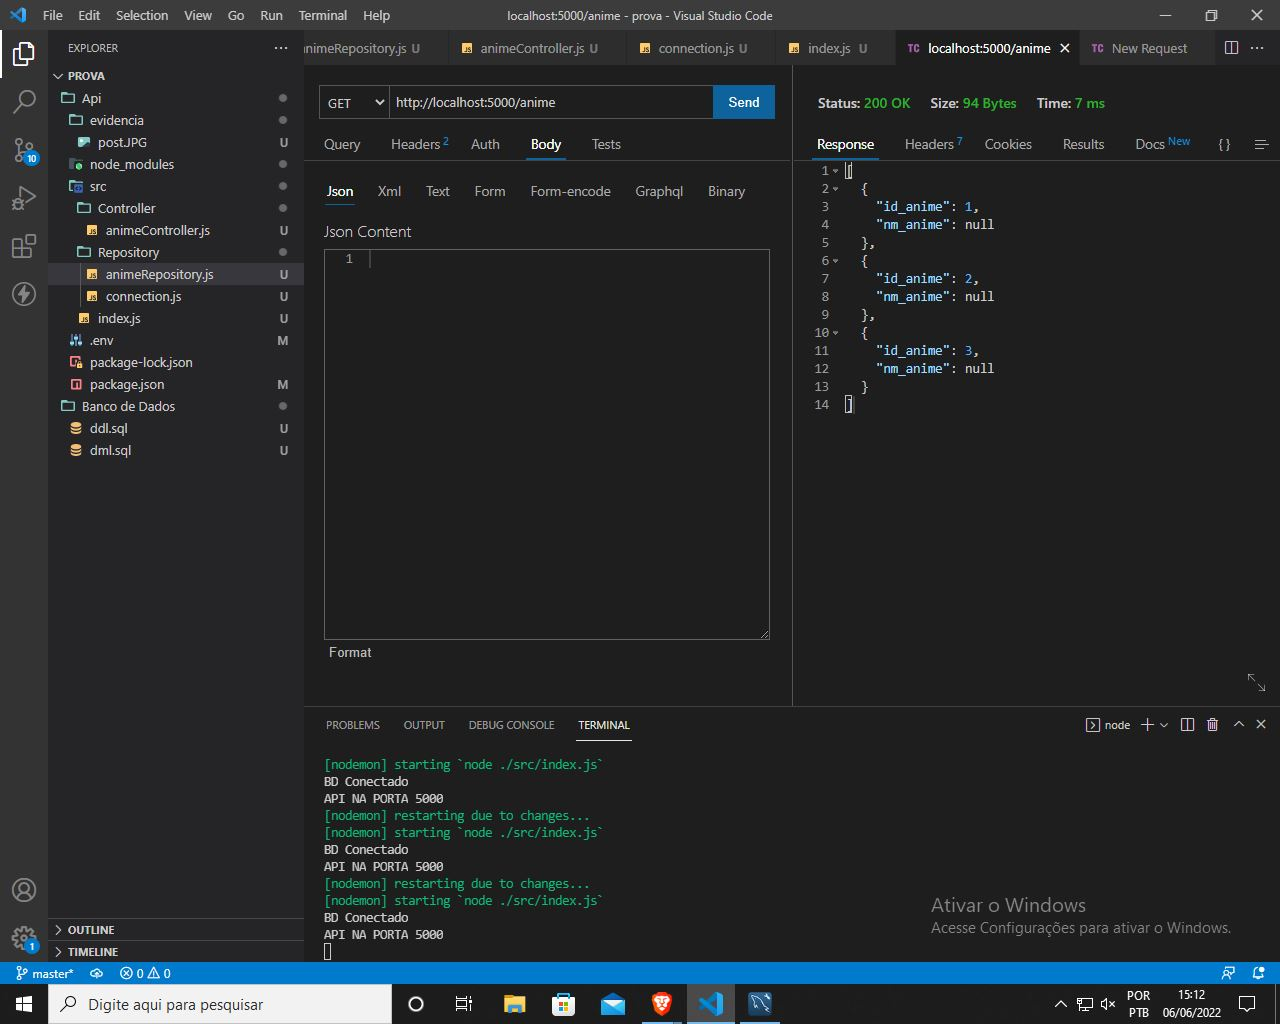
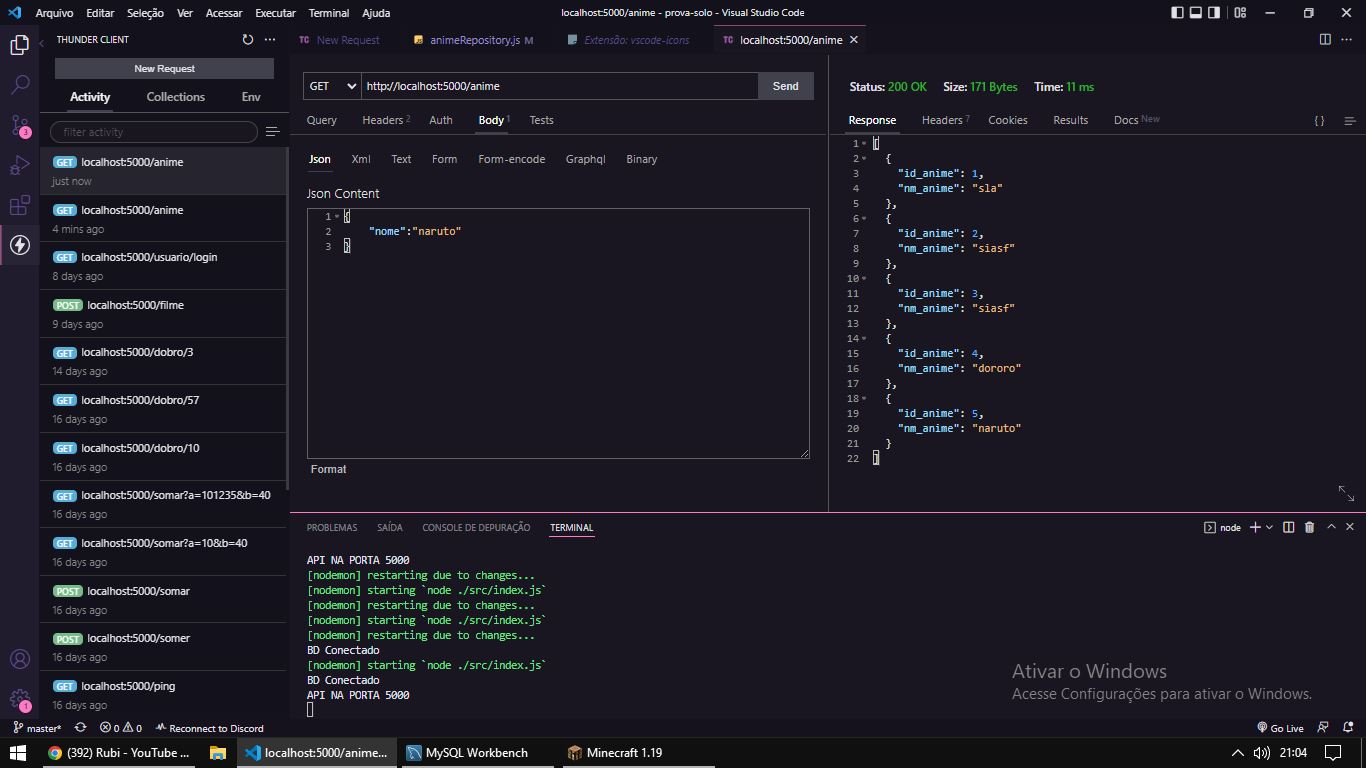
tava tudo certo mas eu arrumei mais ainda

diff --git a/Api/src/Repository/animeRepository.js b/Api/src/Repository/animeRepository.js
@@ -9,7 +9,7 @@ export async function Add (anime){
 
     const [resposta] = await conexao.query(comando, [anime.nome]);
     
-    anime.nome = resposta.insertId;
+    anime.id = resposta.insertId;
 
     return anime;
 }
